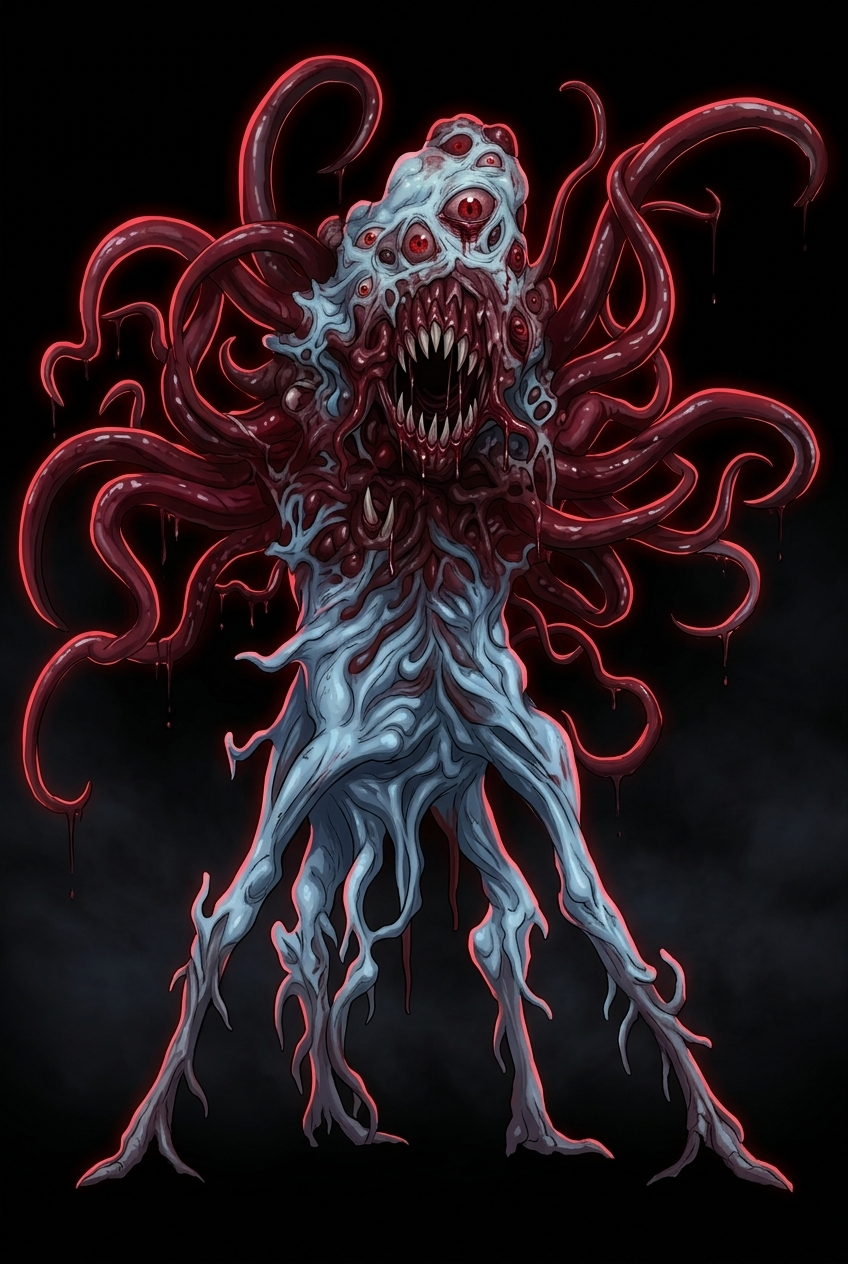
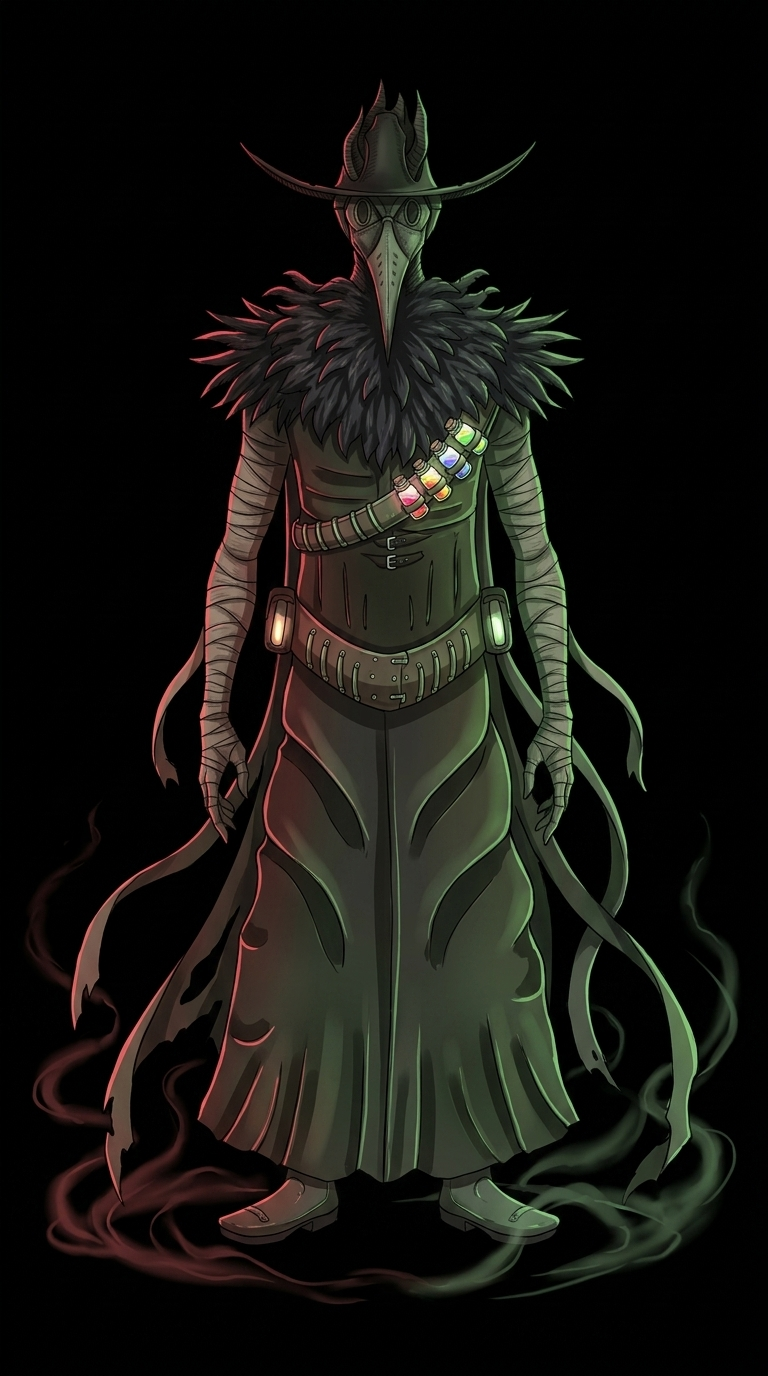
Auto-generated changes

diff --git a/frontend/src/game/entities.js b/frontend/src/game/entities.js
@@ -758,6 +758,147 @@ export class BossServant extends Enemy {
   }
 }
 
+// ─── Lurker Boss (Plague Doctor) ─────────────────────────────────────────────
+// Three-phase boss using the Lurker sprite sheet. Floor 5+ boss encounters.
+
+export class LurkerBoss extends Enemy {
+  constructor(x, y, scale = 1) {
+    super(x, y, {
+      w: 78, h: 142,
+      hp: Math.floor(820 * scale),
+      speed: 1.8,
+      damage: Math.floor(20 * scale),
+      attackRange: 95,
+      detectionRange: 9999,
+      type: 'lurker_boss',
+      score: 700
+    });
+    this.phase = 1;
+    this.maxHpRef = this.maxHp;
+    this.specialCooldown = 220;
+    this.teleportCooldown = 480;
+    this.summonCooldown = 720;
+    this.poisonCloudCooldown = 180;
+    this.attackState = 'idle';
+    this.attackStateTimer = 0;
+    this.floatOffset = 0;
+    this.scaleAdj = scale;
+  }
+
+  ai(player, engine) {
+    const { dx, dy, dist } = this._distToPlayer(player);
+    this.facingRight = dx > 0;
+
+    // Phase transitions
+    const hpFrac = this.hp / this.maxHpRef;
+    if (this.phase === 1 && hpFrac < 0.66) {
+      this.phase = 2;
+      this.speed *= 1.25;
+      engine.particles.burst(this.x + this.w / 2, this.y + this.h / 2, 'boss_hit');
+      engine.particles.burst(this.x + this.w / 2, this.y + this.h / 2, 'dark_aura');
+      if (engine.sound?.playBossRoar) engine.sound.playBossRoar();
+    } else if (this.phase === 2 && hpFrac < 0.33) {
+      this.phase = 3;
+      this.speed *= 1.2;
+      this.damage = Math.floor(this.damage * 1.2);
+      engine.particles.burst(this.x + this.w / 2, this.y + this.h / 2, 'boss_hit');
+      engine.particles.burst(this.x + this.w / 2, this.y + this.h / 2, 'ultimate_explosion');
+      if (engine.sound?.playBossRoar) engine.sound.playBossRoar();
+    }
+
+    this.specialCooldown--;
+    this.teleportCooldown--;
+    this.poisonCloudCooldown--;
+    if (this.phase === 3) this.summonCooldown--;
+    this.floatOffset += 0.04;
+
+    if (this.attackStateTimer > 0) this.attackStateTimer--;
+    else this.attackState = 'idle';
+
+    // Phase 2+ teleport
+    if (this.phase >= 2 && this.teleportCooldown <= 0 && dist > 180) {
+      this.teleportCooldown = this.phase === 3 ? 280 : 380;
+      engine.particles.burst(this.x + this.w / 2, this.y + this.h / 2, 'smoke');
+      engine.particles.burst(this.x + this.w / 2, this.y + this.h / 2, 'dark_aura');
+      const side = Math.random() < 0.5 ? -1 : 1;
+      this.x = Math.max(40, Math.min(engine.W - this.w - 40, player.x + side * 140));
+      this.y = player.y - 30;
+      engine.particles.burst(this.x + this.w / 2, this.y + this.h / 2, 'smoke');
+      this.attackState = 'special';
+      this.attackStateTimer = 24;
+      return;
+    }
+
+    // Phase 3 summon adds
+    if (this.phase === 3 && this.summonCooldown <= 0) {
+      this.summonCooldown = 480;
+      this.attackState = 'special';
+      this.attackStateTimer = 30;
+      for (let i = 0; i < 2; i++) {
+        const sx = this.x + (i === 0 ? -60 : this.w + 60);
+        const minion = new LurkerCultist(sx, this.y + 30, this.scaleAdj * 0.85);
+        engine.enemies.push(minion);
+        engine.particles.burst(sx + 20, this.y + 50, 'dark_aura');
+      }
+      return;
+    }
+
+    // Poison cloud projectile
+    if (this.poisonCloudCooldown <= 0 && dist < 480) {
+      this.poisonCloudCooldown = this.phase === 3 ? 110 : (this.phase === 2 ? 150 : 200);
+      this.attackState = 'attack';
+      this.attackStateTimer = 22;
+      const cloudX = player.x + player.w / 2 + (Math.random() - 0.5) * 80;
+      engine.addProjectile({
+        x: this.x + this.w / 2, y: this.y + this.h / 3,
+        vx: (cloudX - (this.x + this.w / 2)) * 0.012,
+        vy: -2.5,
+        gravity: 0.18,
+        damage: Math.floor(this.damage * 0.6),
+        owner: 'enemy', life: 130,
+        color: '#84cc16', glow: '#16a34a', size: 13,
+        kind: 'poison_cloud'
+      });
+      engine.particles.burst(this.x + this.w / 2, this.y + this.h / 3, 'sparks');
+    }
+
+    // Special: crimson radial bolts
+    if (this.specialCooldown <= 0) {
+      this.specialCooldown = this.phase === 3 ? 200 : (this.phase === 2 ? 260 : 340);
+      this.attackState = 'special';
+      this.attackStateTimer = 30;
+      const bolts = this.phase === 3 ? 8 : (this.phase === 2 ? 6 : 4);
+      for (let i = 0; i < bolts; i++) {
+        const a = (Math.PI * 2 * i) / bolts + this.floatOffset * 0.3;
+        engine.addProjectile({
+          x: this.x + this.w / 2, y: this.y + this.h / 2,
+          vx: Math.cos(a) * 4.2, vy: Math.sin(a) * 4.2,
+          damage: this.damage, owner: 'enemy',
+          life: 110, color: '#ff3366', size: 10, glow: '#ff6600'
+        });
+      }
+      engine.particles.burst(this.x + this.w / 2, this.y + this.h / 2, 'boss_hit');
+    }
+
+    // Movement / melee
+    if (dist > this.attackRange + 20) {
+      this.vx += (dx > 0 ? 1 : -1) * 0.28;
+      if (Math.abs(this.vx) > this.speed) this.vx = Math.sign(this.vx) * this.speed;
+      if (this.attackState === 'idle') this.attackState = 'walk';
+    } else {
+      this.vx *= 0.82;
+      if (this.attackCooldown <= 0 && Math.abs(dy) < 110) {
+        this.attackCooldown = 70;
+        this.attackState = 'attack';
+        this.attackStateTimer = 20;
+        engine.dealEnemyDamage(player, this.damage, engine);
+        engine.particles.burst(player.x + player.w / 2, player.y + player.h / 2, 'void_hit');
+      }
+    }
+  }
+}
+
+
 
 // ─── Soul Seed ───────────────────────────────────────────────────────────────
 // Floating collectible that fills ultimate charge

diff --git a/frontend/src/game/sprites.js b/frontend/src/game/sprites.js
@@ -1,6 +1,7 @@
 // Sprite sheet loader with black-background transparency handling
 
 const MAYTRADALIS_URL = 'https://customer-assets.emergentagent.com/job_anime-deathly-rogue/artifacts/o6f84tbr_sprite-max-px-frames-16-rows-4-cols-4%20%282%29.png';
+const LURKER_BOSS_URL = '/sprites/lurker_boss.png';
 
 class SpriteSheet {
   constructor(url, cols, rows) {
@@ -99,6 +100,25 @@ export const SPRITES = {};
 
 export function initSprites() {
   SPRITES.maytradalis = new SpriteSheet(MAYTRADALIS_URL, 4, 4);
+  SPRITES.lurker_boss = new SpriteSheet(LURKER_BOSS_URL, 4, 4);
+}
+
+// Map Lurker boss state to sprite frame
+export function getLurkerFrame(state, animFrame) {
+  switch (state) {
+    case 'idle':
+      return Math.floor(animFrame / 8) % 4;          // row 0: idle 0-3
+    case 'walk':
+    case 'chase':
+      return 4 + Math.floor(animFrame / 5) % 4;      // row 1: walk 4-7
+    case 'attack':
+      return 8 + Math.floor(animFrame / 4) % 4;      // row 2: attack 8-11
+    case 'special':
+    case 'charge':
+      return 12 + Math.floor(animFrame / 4) % 4;     // row 3: special 12-15
+    default:
+      return 0;
+  }
 }
 
 // Map player state to sprite frame

diff --git a/backend/scripts/generate_lurker.py b/backend/scripts/generate_lurker.py
@@ -1,0 +1,84 @@
+"""Generate Lurker boss assets from new reference sheet."""
+import asyncio, os, base64, urllib.request
+from pathlib import Path
+from dotenv import load_dotenv
+from emergentintegrations.llm.chat import LlmChat, UserMessage, ImageContent
+
+load_dotenv()
+
+REF_URL = 'https://customer-assets.emergentagent.com/job_anime-deathly-rogue/artifacts/hzal4f2f_LURKER_1.png'
+OUT = Path('/app/frontend/public/intro'); OUT.mkdir(parents=True, exist_ok=True)
+SPR = Path('/app/frontend/public/sprites'); SPR.mkdir(parents=True, exist_ok=True)
+
+ASSETS = [
+    {
+        'name': 'lurker',
+        'out': OUT / 'lurker.png',
+        'prompt': (
+            "Using the ONE Lurker plague-doctor entity from this character reference sheet "
+            "(tall slender humanoid in dark-mossy-green tattered robes, tall curved black hat with horns/spikes, "
+            "long pointed bird-beak plague-doctor mask, spiky black feather ruff at the shoulders, "
+            "bandolier across the chest with glowing vial pouches, leather belt with buckles, "
+            "bandage-wrapped long arms, flowing long ribbon-trim cloak), "
+            "render ONE clean cinematic full-body single-character portrait of THE LURKER for an anime horror game intro. "
+            "Centered standing pose, slight forward menacing lean, anime horror art style, "
+            "single character only (no character sheet, no duplicates, no text, no logos), "
+            "solid black background, dramatic crimson and sickly green rim-lighting, "
+            "thin red mist swirling around feet, vertical portrait aspect ratio, key-art quality."
+        )
+    },
+    {
+        'name': 'lurker_boss_sprite',
+        'out': SPR / 'lurker_boss.png',
+        'prompt': (
+            "Create a clean 2D game sprite sheet (4 columns × 4 rows = 16 frames, transparent background, "
+            "1024x1024 pixels, each cell 256x256) of the SAME Lurker plague-doctor entity from this reference. "
+            "Anime game art style, consistent character design, clean line art with solid shading, "
+            "no white background (use transparent or PURE BLACK background so it can be removed), "
+            "each frame must show the FULL character centered in its cell. "
+            "Row 1 (frames 0-3): IDLE breathing animation, hands at sides, robes drift slightly. "
+            "Row 2 (frames 4-7): WALK CYCLE moving to the right, robes flow with motion. "
+            "Row 3 (frames 8-11): ATTACK with right hand outstretched, releasing green poison cloud, robes flare. "
+            "Row 4 (frames 12-15): SPECIAL ATTACK channeling crimson energy with both arms raised, "
+            "menacing pose with red eyes glowing through plague mask. "
+            "Maintain the dark-green tattered robe, spiky black feather collar, tall horned hat with beak mask, "
+            "bandolier with glowing vials, and bandaged thin limbs in every frame."
+        )
+    }
+]
+
+
+def fetch_b64(url):
+    with urllib.request.urlopen(url, timeout=30) as r:
+        return base64.b64encode(r.read()).decode('utf-8')
+
+
+async def gen(asset):
+    api_key = os.getenv("EMERGENT_LLM_KEY")
+    chat = LlmChat(api_key=api_key, session_id=f"lurker-{asset['name']}",
+                   system_message="You are an expert anime game artist creating clean, consistent assets.")
+    chat.with_model("gemini", "gemini-3.1-flash-image-preview").with_params(modalities=["image", "text"])
+
+    print(f"Fetching ref for {asset['name']}…")
+    ref = fetch_b64(REF_URL)
+
+    print(f"Generating {asset['name']}…")
+    text, images = await chat.send_message_multimodal_response(
+        UserMessage(text=asset['prompt'], file_contents=[ImageContent(ref)])
+    )
+    if images:
+        asset['out'].write_bytes(base64.b64decode(images[0]['data']))
+        print(f"  ✓ Saved → {asset['out']}")
+    else:
+        print(f"  ✗ No image returned: {(text or '')[:200]}")
+
+
+async def main():
+    for a in ASSETS:
+        try:
+            await gen(a)
+        except Exception as e:
+            print(f"Error: {e}")
+
+if __name__ == "__main__":
+    asyncio.run(main())